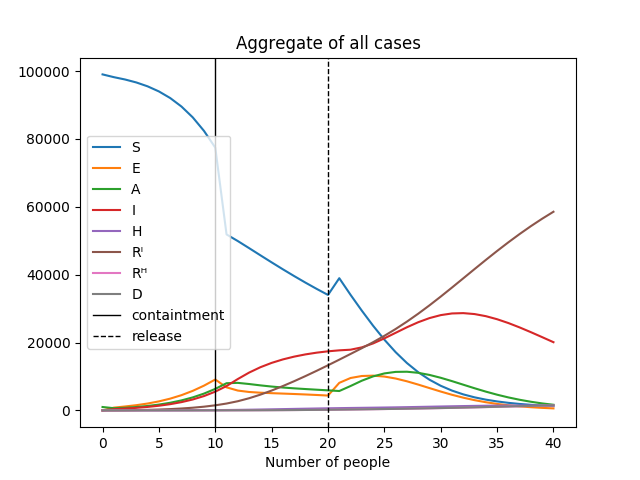
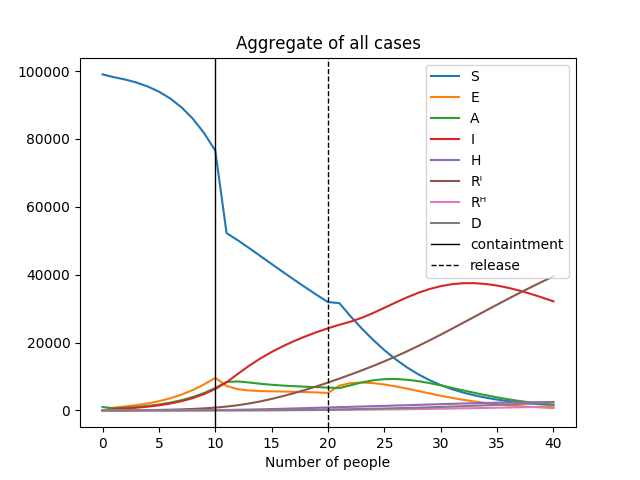
Updated test script.

diff --git a/test.py b/test.py
@@ -4,8 +4,7 @@
 import numpy as np
 import matplotlib.pyplot as plt
 from arenas_model import *
-from  data_handling.parameters import get_params_arenas
-
+import arenas_params as ap
 
 def main():
     # Set number of compartiments (S,E,A,I,H,Rᴵ,Rᴴ,D -> 8)
@@ -19,13 +18,32 @@ def main():
     ##--SET MODEL PARAMETERS--##
 
     # Arenas parameters (χ is repeated for the new model with one more compartiment)
-    params = get_params_arenas()
+    params = [
+        ap.β,  # 0 : β
+        ap.kg, # 1 : k
+        ap.η,  # 2 : η
+        ap.αg, # 3 : α
+        ap.ν,  # 4 : ν
+        ap.μg, # 5 : μ
+        ap.γg, # 6 : γ
+        ap.ωg, # 7 : ω
+        ap.ψg, # 8 : ψ
+        ap.χg, # 9 : χᴵ
+        ap.χg, # 10: χᴴ
+        0,     # 11: N
+        ap.σ,  # 12: σ
+        ap.κ0, # 13: κ0
+        ap.ϕ,  # 14: ϕ
+        ap.tc, # 15: days from t0 to confinement
+        ap.tf, # 16: days from confinement to reactivation
+        ap.κf, # 17: new normality parameter
+         ]
 
     ## Containtment parameters
     tc = 10
-    params[-2] = tc
+    params[-3] = tc
     tf = 10
-    params[-1] = tf
+    params[-2] = tf
 
     ##--SET ARTIFICIAL INITIAL CONDITIONS--##
     # I'll put a small amount of asymptomatic cases. The rest will be all susceptible.
